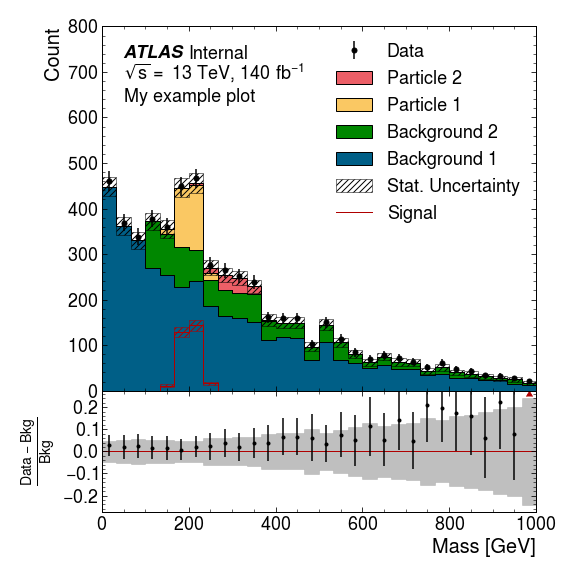
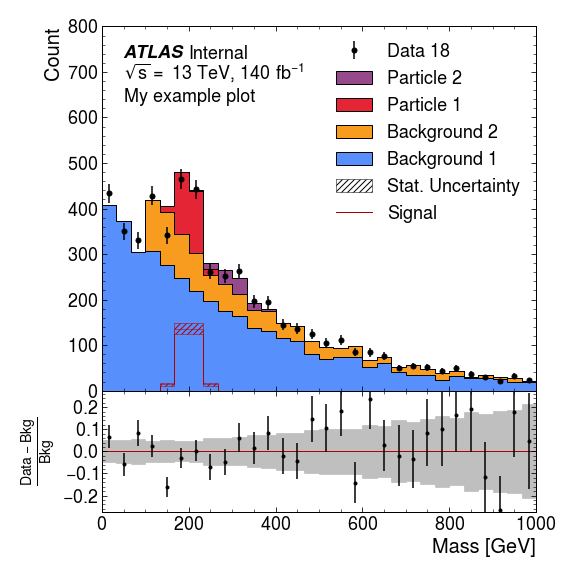
Release 0.24
- Add petroff10 colors that are now the (soft) ATLAS recommendation
  - Remove error band from stacked histograms by default

diff --git a/atlas_mpl_style/__init__.py b/atlas_mpl_style/__init__.py
@@ -29,6 +29,16 @@ _style.core.USER_LIBRARY_PATHS.append(_stylesheets)
 _style.core.reload_library()
 
 _EXTRA_COLORS = {
+    "petroff:blue": "#3f90da",
+    "petroff:orange": "#ffa90e",
+    "petroff:red": "#bd1f01",
+    "petroff:gray": "#94a4a2",
+    "petroff:purple": "#832db6",
+    "petroff:brown": "#a96b59",
+    "petroff:orange2": "#e76300",
+    "petroff:tan": "#b9ac70",
+    "petroff:gray2": "#717581",
+    "petroff:lightBlue": "#92dadd",
     "paper:bg": "#eeeeee",
     "paper:fg": "#444444",
     "paper:bgAlt": "#e4e4e4",
@@ -124,35 +134,56 @@ else:
     )
 
 
-def set_color_cycle(pal=None, n=4):
+def set_color_cycle(pal=None, n=10):
     """
     Sets a different color cycle.
-
-    The ATLAS palette includes the standard green and yellow.
 
     Parameters
     ----------
     pal : {'ATLAS', 'Paper', 'Oceanic', 'MPL', "HDBS", "HH", None}
-      The palette to use. None resets to default palette.
-      The ATLAS palette is suitable for histograms, not lines.
+      The palette to use. None resets to default palette (Petroff 6, 8, or 10 depending on n).
       'MPL' (alias 'Tab') provides the default matplotlib palette.
     n : int, optional
       Number of lines or histograms.
     """
     if n < 2:
         n = 2
-    if pal.upper() == "ATLAS":
-        if n > 5:
-            n = 5
-        colors = reversed(
-            ["series2:yellow", "series2:green", "series2:blue", "series2:purple"][
-                0 : n - 1
+    if pal.upper() == "ATLAS" or pal.upper().startswith("PETROFF") or pal is None:
+        if n <= 6:
+            colors = [
+                (87/255, 144/255, 252/255),
+                (248/255, 156/255, 32/255),
+                (228/255, 37/255, 54/255),
+                (150/255, 74/255, 139/255),
+                (156/255, 156/255, 161/255),
+                (122/255, 33/255, 221/255)
             ]
-            + ["series2:red"]
-        )
+        elif n <= 8:
+            colors = [
+                (24/255, 69/255, 251/255),
+                (255/255, 94/255, 2/255),
+                (201/255, 31/255, 22/255),
+                (200/255, 73/255, 169/255),
+                (173/255, 173/255, 125/255),
+                (134/255, 200/255, 221/255),
+                (87/255, 141/255, 255/255),
+                (101/255, 99/255, 100/255)
+            ]
+        else:
+            colors = [
+                "petroff:blue",
+                "petroff:orange",
+                "petroff:red",
+                "petroff:gray",
+                "petroff:purple",
+                "petroff:brown",
+                "petroff:orange2",
+                "petroff:tan",
+                "petroff:gray2",
+                "petroff:lightBlue"
+            ]
+
     elif pal.lower() == "paper":
-        if n > 8:
-            n = 8
         colors = [
             "paper:green",
             "paper:red",
@@ -162,7 +193,7 @@ def set_color_cycle(pal=None, n=4):
             "paper:yellow",
             "paper:lightBlue",
             "paper:olive",
-        ][0:n]
+        ]
     elif pal.lower() == "oceanic":
         colors = [
             "on:green",
@@ -238,7 +269,7 @@ def use_atlas_style(atlasLabel="ATLAS", fancyLegend=False, usetex=False):
             usetex = False
 
     _style.use("atlas")
-    set_color_cycle("Paper")
+    set_color_cycle("ATLAS")
     plot._atlas_label = atlasLabel
     _mpl.rcParams["xtick.minor.visible"] = True
     _mpl.rcParams["ytick.minor.visible"] = True
@@ -274,8 +305,6 @@ def ratio_axes(extra_axes=None):
     -----------
     extra_axes : int, optional
        Number of additional axes. If not given, defaults to one.
-    square : bool, optional
-       Whether the plot should be square or tall. Defaults to True (square)
 
     Returns
     -------

diff --git a/atlas_mpl_style/plot.py b/atlas_mpl_style/plot.py
@@ -193,7 +193,7 @@ def register_band(label, artist, ax=None):
 
 
 def plot_backgrounds(
-    backgrounds, bins=None, *, total_err=None, empty_stat_legend=False, ax=None
+        backgrounds, bins=None, *, show_errs=False, total_err=None, empty_stat_legend=False, ax=None
 ):
     """
     Plot stacked backgrounds
@@ -204,6 +204,8 @@ def plot_backgrounds(
         List of backgrounds to be plotted, in order (bottom to top)
     bins : array_like, optional
         Bin edges. To preserve backward compatibility, ``backgrounds`` and ``bins`` may be exchanged.
+    show_errs : boolean, optional
+        Draw error bands (if available). Defaults to False following PubCom recommendation.
     total_err: array_like, optional
         Total uncertainty. If given, overrides per-background systematics. This is useful for showing post-fit uncertainties.
     empty_stat_legend: boolean, optional
@@ -258,32 +260,36 @@ def plot_backgrounds(
     total_stat_err = _np.sqrt(total_stat_err)
 
     bin_centers = (bins[1:] + bins[:-1]) / 2
-    if _np.sum(total_stat_err) != 0:
-        ax._ampllegend.has_stat = True
-        plot_band(
-            bins,
-            total_hist - total_stat_err,
-            total_hist + total_stat_err,
-            ax=ax,
-            fc="transparent",
-            ec="k",
-            hatch=r"////",
-            label="Stat. Uncertainty",
-            zorder=6,
-        )
+    if show_errs:
+        if _np.sum(total_stat_err) != 0:
+            ax._ampllegend.has_stat = True
+            plot_band(
+                bins,
+                total_hist - total_stat_err,
+                total_hist + total_stat_err,
+                ax=ax,
+                fc="transparent",
+                ec="k",
+                hatch=r"////",
+                label="Stat. Uncertainty",
+                zorder=6,
+            )
+        elif empty_stat_legend:
+            ax._ampllegend.has_stat = True
+        if _np.sum(total_syst_err) != 0.0:
+            ax._ampllegend.has_syst = True
+            plot_band(
+                bins,
+                total_hist - total_err,
+                total_hist + total_err,
+                color="grey",
+                alpha=0.5,
+                label="Stat. $\\oplus$ Syst. Unc.",
+                zorder=5,
+            )
     elif empty_stat_legend:
         ax._ampllegend.has_stat = True
-    if _np.sum(total_syst_err) != 0.0:
-        ax._ampllegend.has_syst = True
-        plot_band(
-            bins,
-            total_hist - total_err,
-            total_hist + total_err,
-            color="grey",
-            alpha=0.5,
-            label="Stat. $\\oplus$ Syst. Unc.",
-            zorder=5,
-        )
+
     _, _, ps = ax.hist(
         _np.vstack([bin_centers] * n_bkgs).transpose(),
         bins=bins,

diff --git a/docs/colors.rst b/docs/colors.rst
@@ -2,26 +2,32 @@ Additional Colors
 =================
 ATLAS MPL Style adds a number of additional color definitions to Matplotlib.
 
-Default Color Cycle
+Default / ATLAS Color Cycle
 -------------------
-These are the colors of the default color cycle.
+These are the colors of the default (``petroff10``) color cycle.
+See *Accessible Color Sequences for Data Visualization* by Matthew A. Petroff (`arXiv:2107.02270 <https://arxiv.org/abs/2107.02270>`_).
+If 8 or fewer colors are requested in ``set_color_cycle`` the ``petroff8`` or ``petroff6`` color cycle will be used, with slightly different hues.
 
 +-------------------------+-------------------------+-------------------------------------------+
-|``series:cyan``          |``#54c9d1``              |.. image:: _colors/series:cyan.png         |
+|``petroff:blue``          |``#3f90da``              |.. image:: _colors/petroff:blue.png         |
 +-------------------------+-------------------------+-------------------------------------------+
-|``series:orange``        |``#eca89a``              |.. image:: _colors/series:orange.png       |
+|``petroff:orange``          |``#ffa90d``              |.. image:: _colors/petroff:orange.png         |
 +-------------------------+-------------------------+-------------------------------------------+
-|``series:blue``          |``#95bced``              |.. image:: _colors/series:blue.png         |
+|``petroff:red``          |``#bc1e00``              |.. image:: _colors/petroff:red.png         |
 +-------------------------+-------------------------+-------------------------------------------+
-|``series:olive``         |``#ceb776``              |.. image:: _colors/series:olive.png        |
+|``petroff:gray``          |``#94a4a2``              |.. image:: _colors/petroff:gray.png         |
 +-------------------------+-------------------------+-------------------------------------------+
-|``series:purple``        |``#d3a9ea``              |.. image:: _colors/series:purple.png       |
+|``petroff:purple``          |``#832db5``              |.. image:: _colors/petroff:purple.png         |
 +-------------------------+-------------------------+-------------------------------------------+
-|``series:green``         |``#9bc57f``              |.. image:: _colors/series:green.png        |
+|``petroff:brown``          |``#a96b59``              |.. image:: _colors/petroff:brown.png         |
 +-------------------------+-------------------------+-------------------------------------------+
-|``series:pink``          |``#f0a1ca``              |.. image:: _colors/series:pink.png         |
+|``petroff:orange2``          |``#e76300``              |.. image:: _colors/petroff:orange2.png         |
 +-------------------------+-------------------------+-------------------------------------------+
-|``series:turquoise``     |``#5fcbaa``              |.. image:: _colors/series:turquoise.png    |
+|``petroff:tan``          |``#b8ab6f``              |.. image:: _colors/petroff:tan.png         |
++-------------------------+-------------------------+-------------------------------------------+
+|``petroff:gray2``          |``#707480``              |.. image:: _colors/petroff:gray2.png         |
++-------------------------+-------------------------+-------------------------------------------+
+|``petroff:lightBlue``          |``#92dadd``              |.. image:: _colors/petroff:lightBlue.png         |
 +-------------------------+-------------------------+-------------------------------------------+
 
 Paper Colors
@@ -85,27 +91,6 @@ These colors are from the `Oceanic Next
 |``on:brown``             |``#ab7967``              |.. image:: _colors/on:brown.png            |
 +-------------------------+-------------------------+-------------------------------------------+
 
-ATLAS Color Cycle
------------------
-These are the colors from the ``ATLAS`` color cycle. Green and yellow also have the additional
-aliases ``atlas:onesigma`` and ``atlas:twosigma`` respectively for use in limit plots.
-
-+-------------------------+-------------------------+---------------------------------------+
-|``atlas:onesigma``       |``#00ff26``              |.. image:: _colors/atlas:onesigma.png  |
-+-------------------------+-------------------------+---------------------------------------+
-|``atlas:twosigma``       |``#fbff1f``              |.. image:: _colors/atlas:twosigma.png  |
-+-------------------------+-------------------------+---------------------------------------+
-|``series2:green``        |``#00ff26``              |.. image:: _colors/series2:green.png   |
-+-------------------------+-------------------------+---------------------------------------+
-|``series2:yellow``       |``#fbff1f``              |.. image:: _colors/series2:yellow.png  |
-+-------------------------+-------------------------+---------------------------------------+
-|``series2:blue``         |``#00a1e0``              |.. image:: _colors/series2:blue.png    |
-+-------------------------+-------------------------+---------------------------------------+
-|``series2:red``          |``#a30013``              |.. image:: _colors/series2:red.png     |
-+-------------------------+-------------------------+---------------------------------------+
-|``series2:purple``       |``#5100c2``              |.. image:: _colors/series2:purple.png  |
-+-------------------------+-------------------------+---------------------------------------+
-
 HDBS Colors
 -----------
 These are the ATLAS HDBS physics groups colors. Mint cream is not included in the color cycle.
@@ -143,7 +128,16 @@ in the automatic color cycle.
 |``hh:offwhite``      |``#e9f1df``|.. image:: _colors/hh:offwhite.png                 |
 +---------------------+-----------+---------------------------------------------------+
 
+ATLAS Limit Plot Colors
+-----------------
+Also included are ``atlas:onesigma`` and ``atlas:twosigma``, which are the green and red used for these bands
+limit plots.
 
++-------------------------+-------------------------+---------------------------------------+
+|``atlas:onesigma``       |``#00ff26``              |.. image:: _colors/atlas:onesigma.png  |
++-------------------------+-------------------------+---------------------------------------+
+|``atlas:twosigma``       |``#fbff1f``              |.. image:: _colors/atlas:twosigma.png  |
++-------------------------+-------------------------+---------------------------------------+
 
 Transparent
 -----------

diff --git a/docs/examples.rst b/docs/examples.rst
@@ -28,20 +28,23 @@ PlottableHistogram protocol.
     bkg2_dist = dist.expon(1, 3)
     part1_dist = dist.norm(2, 0.2)
     part2_dist = dist.norm(3, 0.4)
-    
+
     bkg1_data = 100*bkg1_dist.rvs(4000, rng)
     bkg2_data = 100*bkg2_dist.rvs(1000, rng)
     part1_data = 100*part1_dist.rvs(300, rng)
     part2_data = 100*part2_dist.rvs(100, rng)
-    noise_data = 100*rng.uniform(0, 10, 200)
-    
+
     x_axis = bh.axis.Regular(30, 0, 1000)
     bkg1_h = bh.Histogram(x_axis).fill(bkg1_data)
     bkg2_h = bh.Histogram(x_axis).fill(bkg2_data)
     part1_h = bh.Histogram(x_axis).fill(part1_data)
     part2_h = bh.Histogram(x_axis).fill(part2_data)
-    error_h = bh.Histogram(x_axis).fill(part2_data)
-    data_h = bh.Histogram(x_axis).fill(bkg1_data).fill(bkg2_data).fill(part1_data).fill(part2_data).fill(noise_data)
+
+    data_h = (bh.Histogram(x_axis)
+                .fill(100*bkg1_dist.rvs(4000, rng))
+                .fill(100*bkg2_dist.rvs(1000, rng))
+                .fill(100*part1_dist.rvs(300, rng))
+                .fill(100*part2_dist.rvs(100, rng)))
 
 Make Plot
 -------------
@@ -74,10 +77,10 @@ it can still take UHI histograms.
 .. code:: python
 
     bkg = ampl.plot.plot_backgrounds([
-        ampl.plot.Background(label="Background 1", hist=bkg1_h, color="paper:blue"),
-        ampl.plot.Background(label="Background 2", hist=bkg2_h, color="paper:green"),
-        ampl.plot.Background(label="Particle 1", hist=part1_h, color="on:yellow"),
-        ampl.plot.Background(label="Particle 2", hist=part2_h, color="on:red"),
+        ampl.plot.Background(label="Background 1", hist=bkg1_h),
+        ampl.plot.Background(label="Background 2", hist=bkg2_h),
+        ampl.plot.Background(label="Particle 1", hist=part1_h),
+        ampl.plot.Background(label="Particle 2", hist=part2_h),
     ], ax=ax)
 
 Next we plot the data, and a “signal”. This ``plot_signal`` function is
@@ -91,7 +94,7 @@ should include that in the stack of “Background”s.
 
 .. code:: python
 
-    ampl.uhi.plot_data(hist=data_h, ax=ax)
+    ampl.uhi.plot_data(hist=data_h, label="Data 18", ax=ax)
     ampl.uhi.plot_signal(label="Signal", hist=part1_h, color="paper:red")
     ampl.uhi.plot_ratio(data_h, bkg, ratio_ax=rax, plottype='diff')
 
@@ -111,6 +114,8 @@ Finally we draw the ATLAS label and the legend. So long as the
 components of the plot have been drawn using the ATLAS MPL style
 functions the order of items in the legend will be determined
 automatically if you use the ``ampl.draw_legend`` function.
+Notice that because the signal has statistical error bands the
+"Stat. Uncertainty" entry has also been added to the legend.
 
 .. code:: python
 
